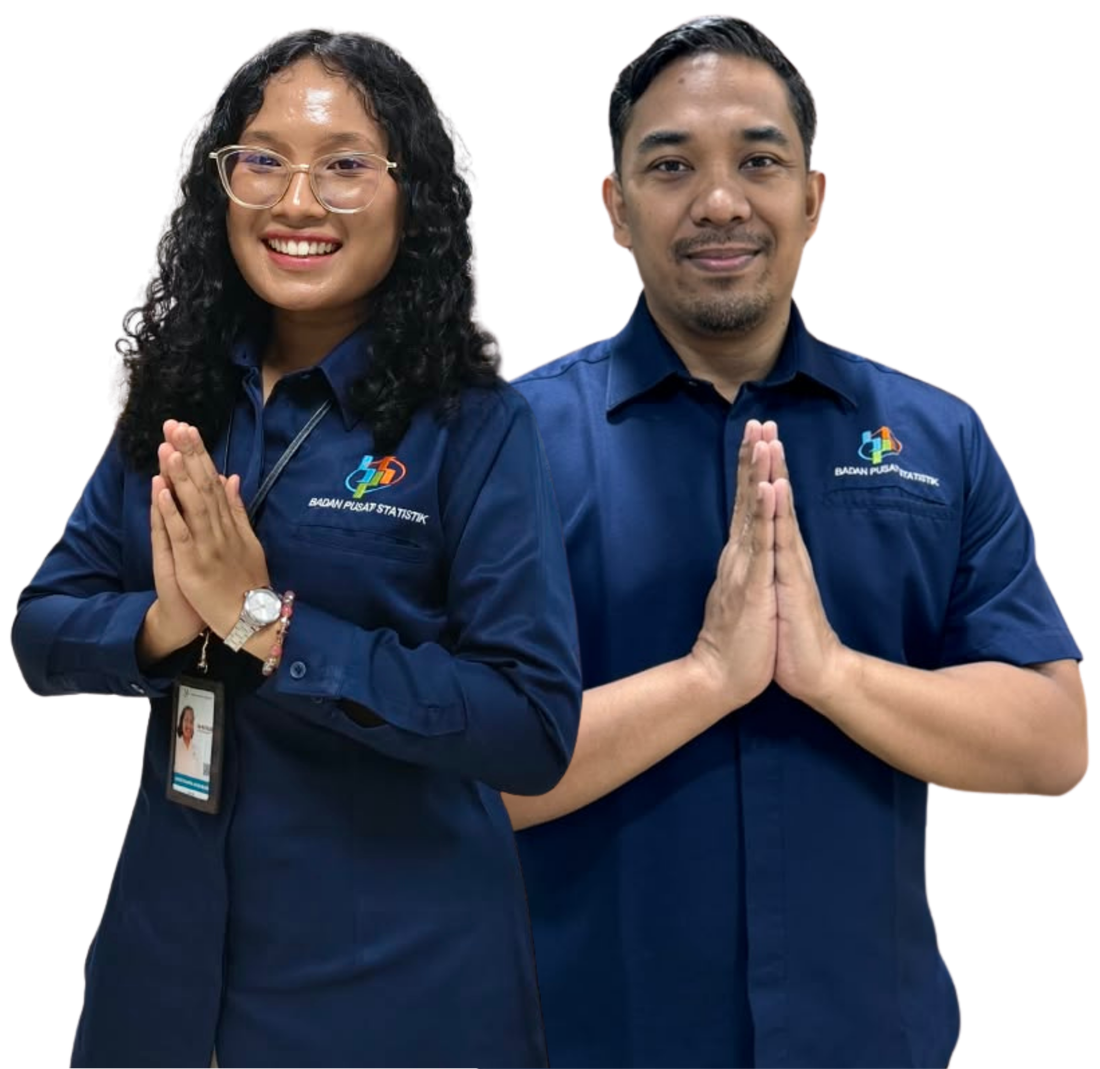
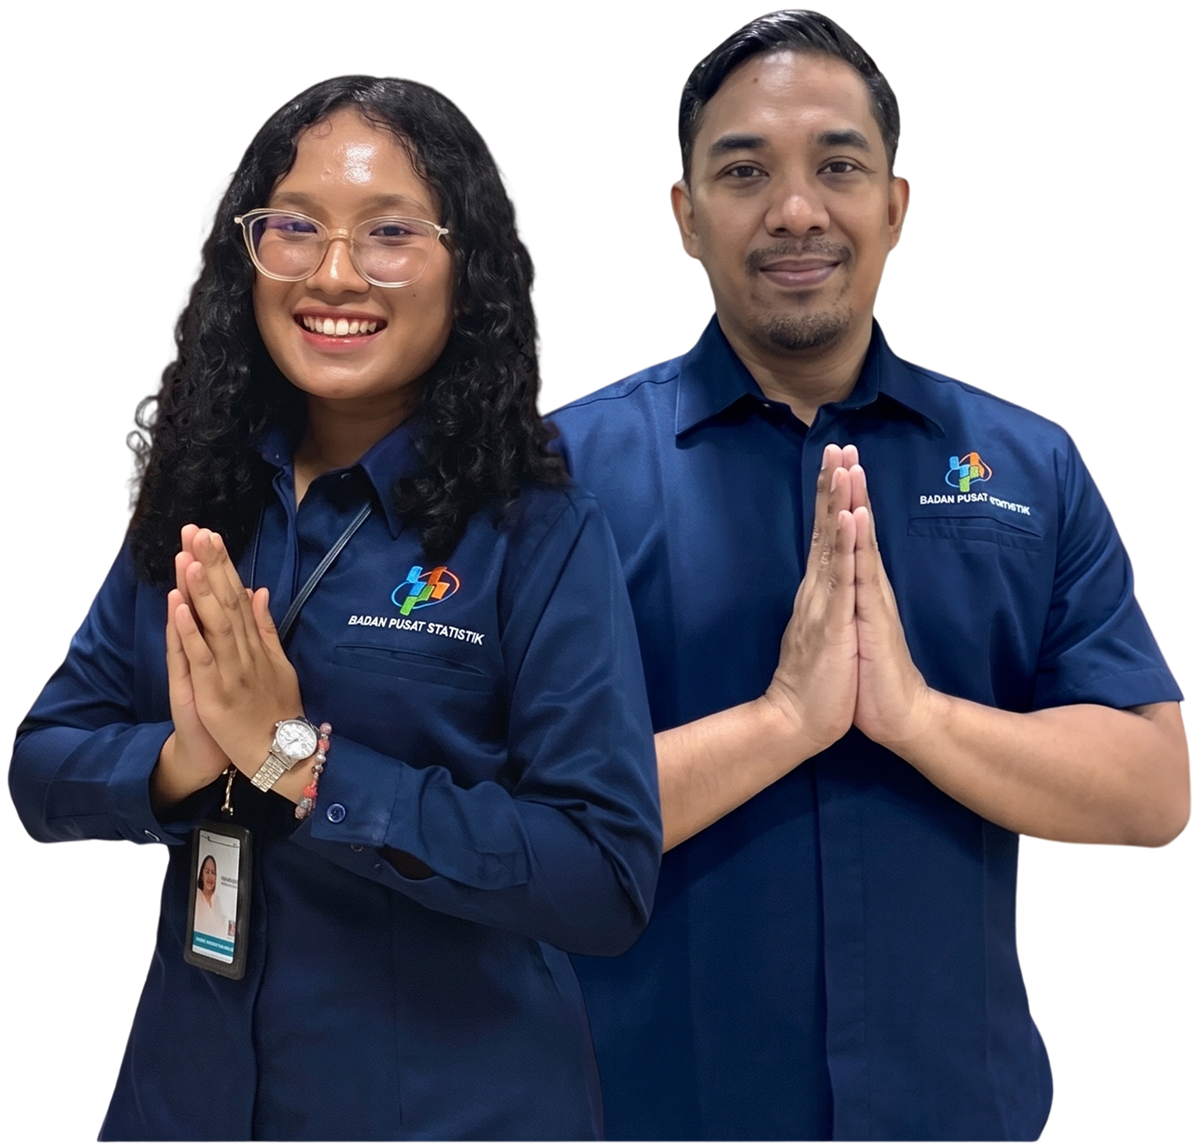
permintaan untuk perbaikan gambar yang singkron dan jelas

diff --git a/app/layout.jsx b/app/layout.jsx
@@ -8,6 +8,29 @@ export const metadata = {
 export default function RootLayout({ children }) {
   return (
     <html lang="en">
+      <head>
+        {/* Tailwind CDN Fail-Safe Fallback */}
+        <script src="https://cdn.tailwindcss.com"></script>
+        <script
+          dangerouslySetInnerHTML={{
+            __html: `
+              tailwind.config = {
+                theme: {
+                  extend: {
+                    colors: {
+                      navy: {
+                        900: '#0B1E43',
+                        800: '#0F2B5B',
+                        700: '#153470',
+                      }
+                    }
+                  }
+                }
+              }
+            `,
+          }}
+        />
+      </head>
       <body className="bg-slate-50 text-slate-800 antialiased min-h-screen">
         {children}
       </body>
